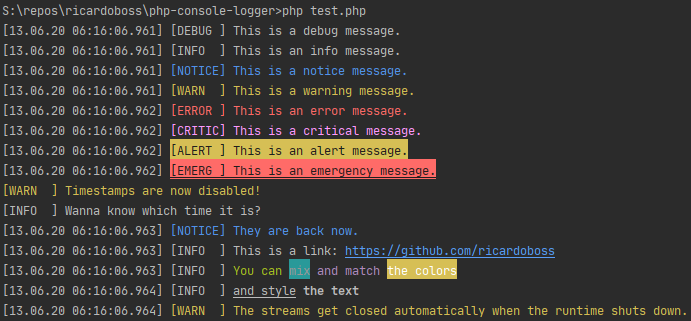
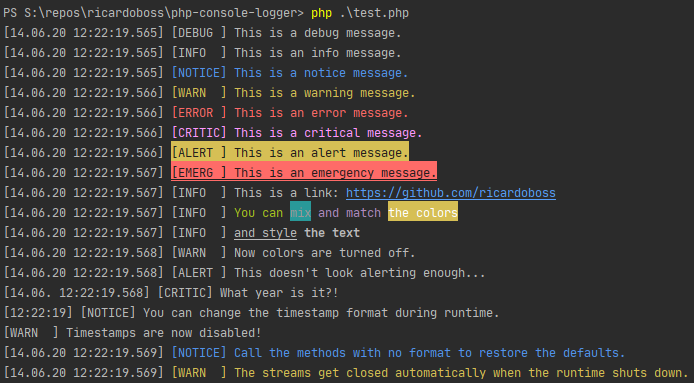
Added ability to turn color off and change the timestamp format

Changed region(s): [[0.0, 0.0, 1.0, 0.9969]]

diff --git a/src/Console.php b/src/Console.php
@@ -45,6 +45,8 @@ class Console
 	private static $error_stream;
 
 	private static bool $timestamps = true;
+	private static bool $colors = true;
+	private static string $timestamp_format = "d.m.y H:i:s.v";
 
 	private static array $availableForegroundColors = [
 		'black' => ['set' => 30, 'unset' => 39],
@@ -107,9 +109,19 @@ class Console
 		}
 	}
 
-	public static function timestamps(bool $enable): void
+	public static function timestamps(bool $enable = true): void
 	{
 		self::$timestamps = $enable;
+	}
+
+	public static function colors(bool $enable = true): void
+	{
+		self::$colors = $enable;
+	}
+
+	public static function timestampFormat(string $format = "d.m.y H:i:s.v"): void
+	{
+		self::$timestamp_format = $format;
 	}
 
 	public static function link(string $link): string
@@ -176,14 +188,16 @@ class Console
 		bool $error = false): void
 	{
 		$stream = $error ? self::$error_stream : self::$output_stream;
-		$message_format = self::apply($message, $foreground, $background, $options);
+
+		if (self::$colors)
+			$message = self::apply($message, $foreground, $background, $options);
 
 		if (self::$timestamps) {
-			$time = '[' . (new DateTime())->format("d.m.y H:i:s.v") . ']';
-			$message_format = $time . ' ' . $message_format;
+			$time = '[' . (new DateTime())->format(self::$timestamp_format) . ']';
+			$message = $time . ' ' . $message;
 		}
 
-		fwrite($stream, $message_format . $suffix);
+		fwrite($stream, $message . $suffix);
 		fflush($stream);
 	}
 

diff --git a/test.php b/test.php
@@ -16,16 +16,25 @@ Console::critical("This is a critical message.");
 Console::alert("This is an alert message.");
 Console::emergency("This is an emergency message.");
 
-Console::timestamps(false);
-
-Console::warn("Timestamps are now disabled!");
-Console::info("Wanna know which time it is?");
-
-Console::timestamps(true);
-
-Console::notice("They are back now.");
 Console::info("This is a link: %s", Console::link("https://github.com/ricardoboss"));
 Console::info("%s %s %s %s", Console::green("You can"), Console::cyanBack("mix"), Console::magenta("and match"), Console::apply("the colors", 'black', 'yellow'));
 Console::info("%s %s", Console::underscore("and style"), Console::bold("the text"));
+
+Console::colors(false);
+Console::warn("Now colors are turned off.");
+Console::alert("This doesn't look alerting enough...");
+
+Console::timestampFormat("d.m. H:i:s.v");
+Console::critical("What year is it?!");
+Console::timestampFormat("H:i:s");
+Console::notice("You can change the timestamp format during runtime.");
+
+Console::timestamps(false);
+Console::warn("Timestamps are now disabled!");
+
+Console::timestampFormat();
+Console::colors();
+Console::timestamps();
+Console::notice("Call the methods with no format to restore the defaults.");
 
 Console::warn("The streams get closed automatically when the runtime shuts down.");
